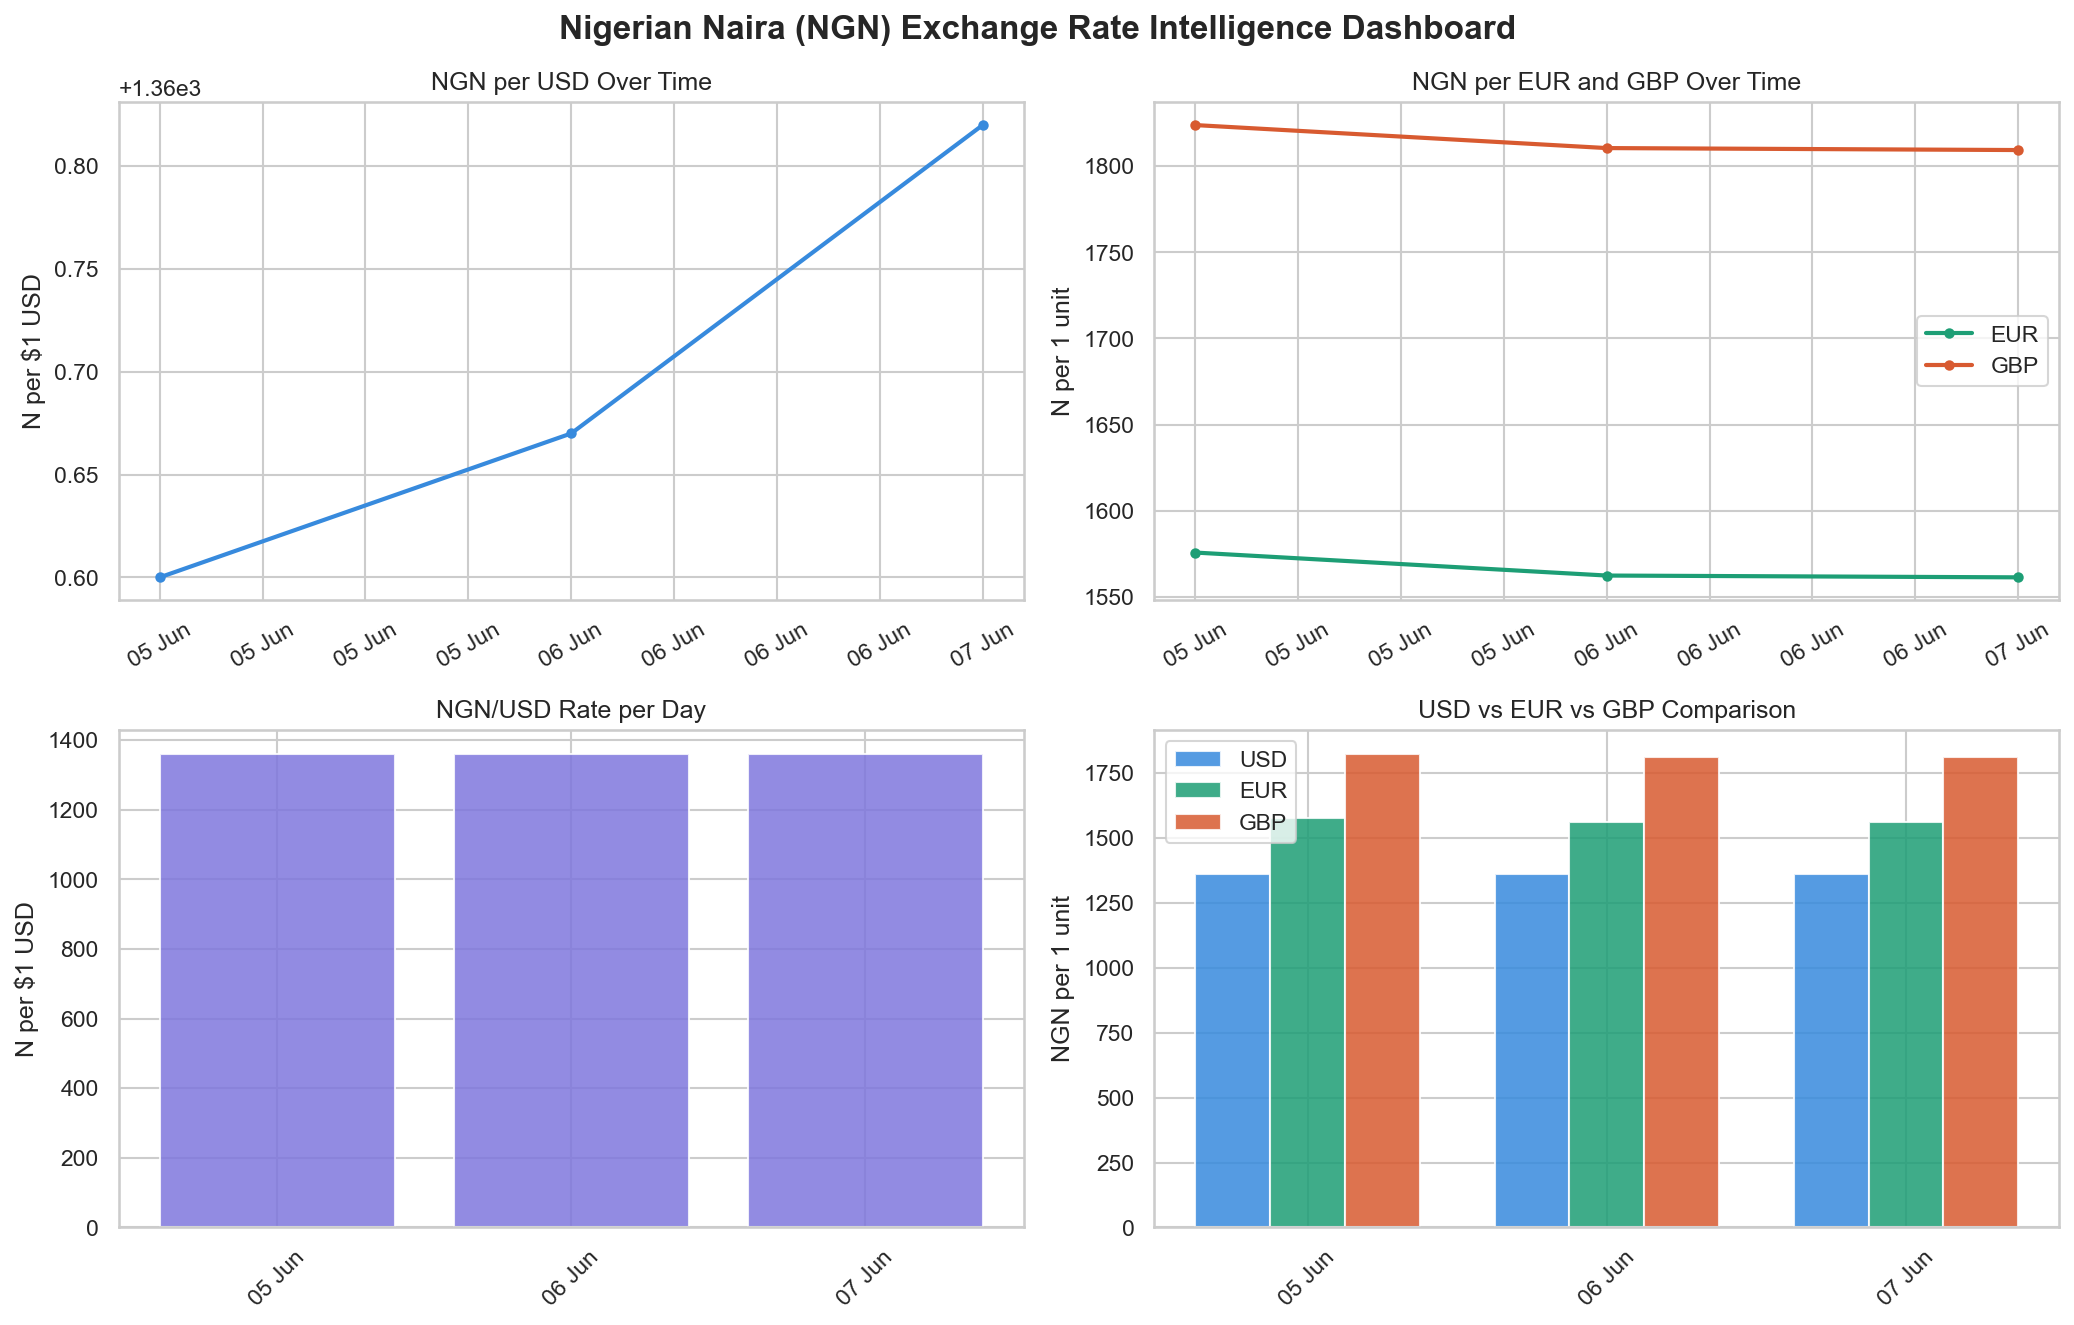
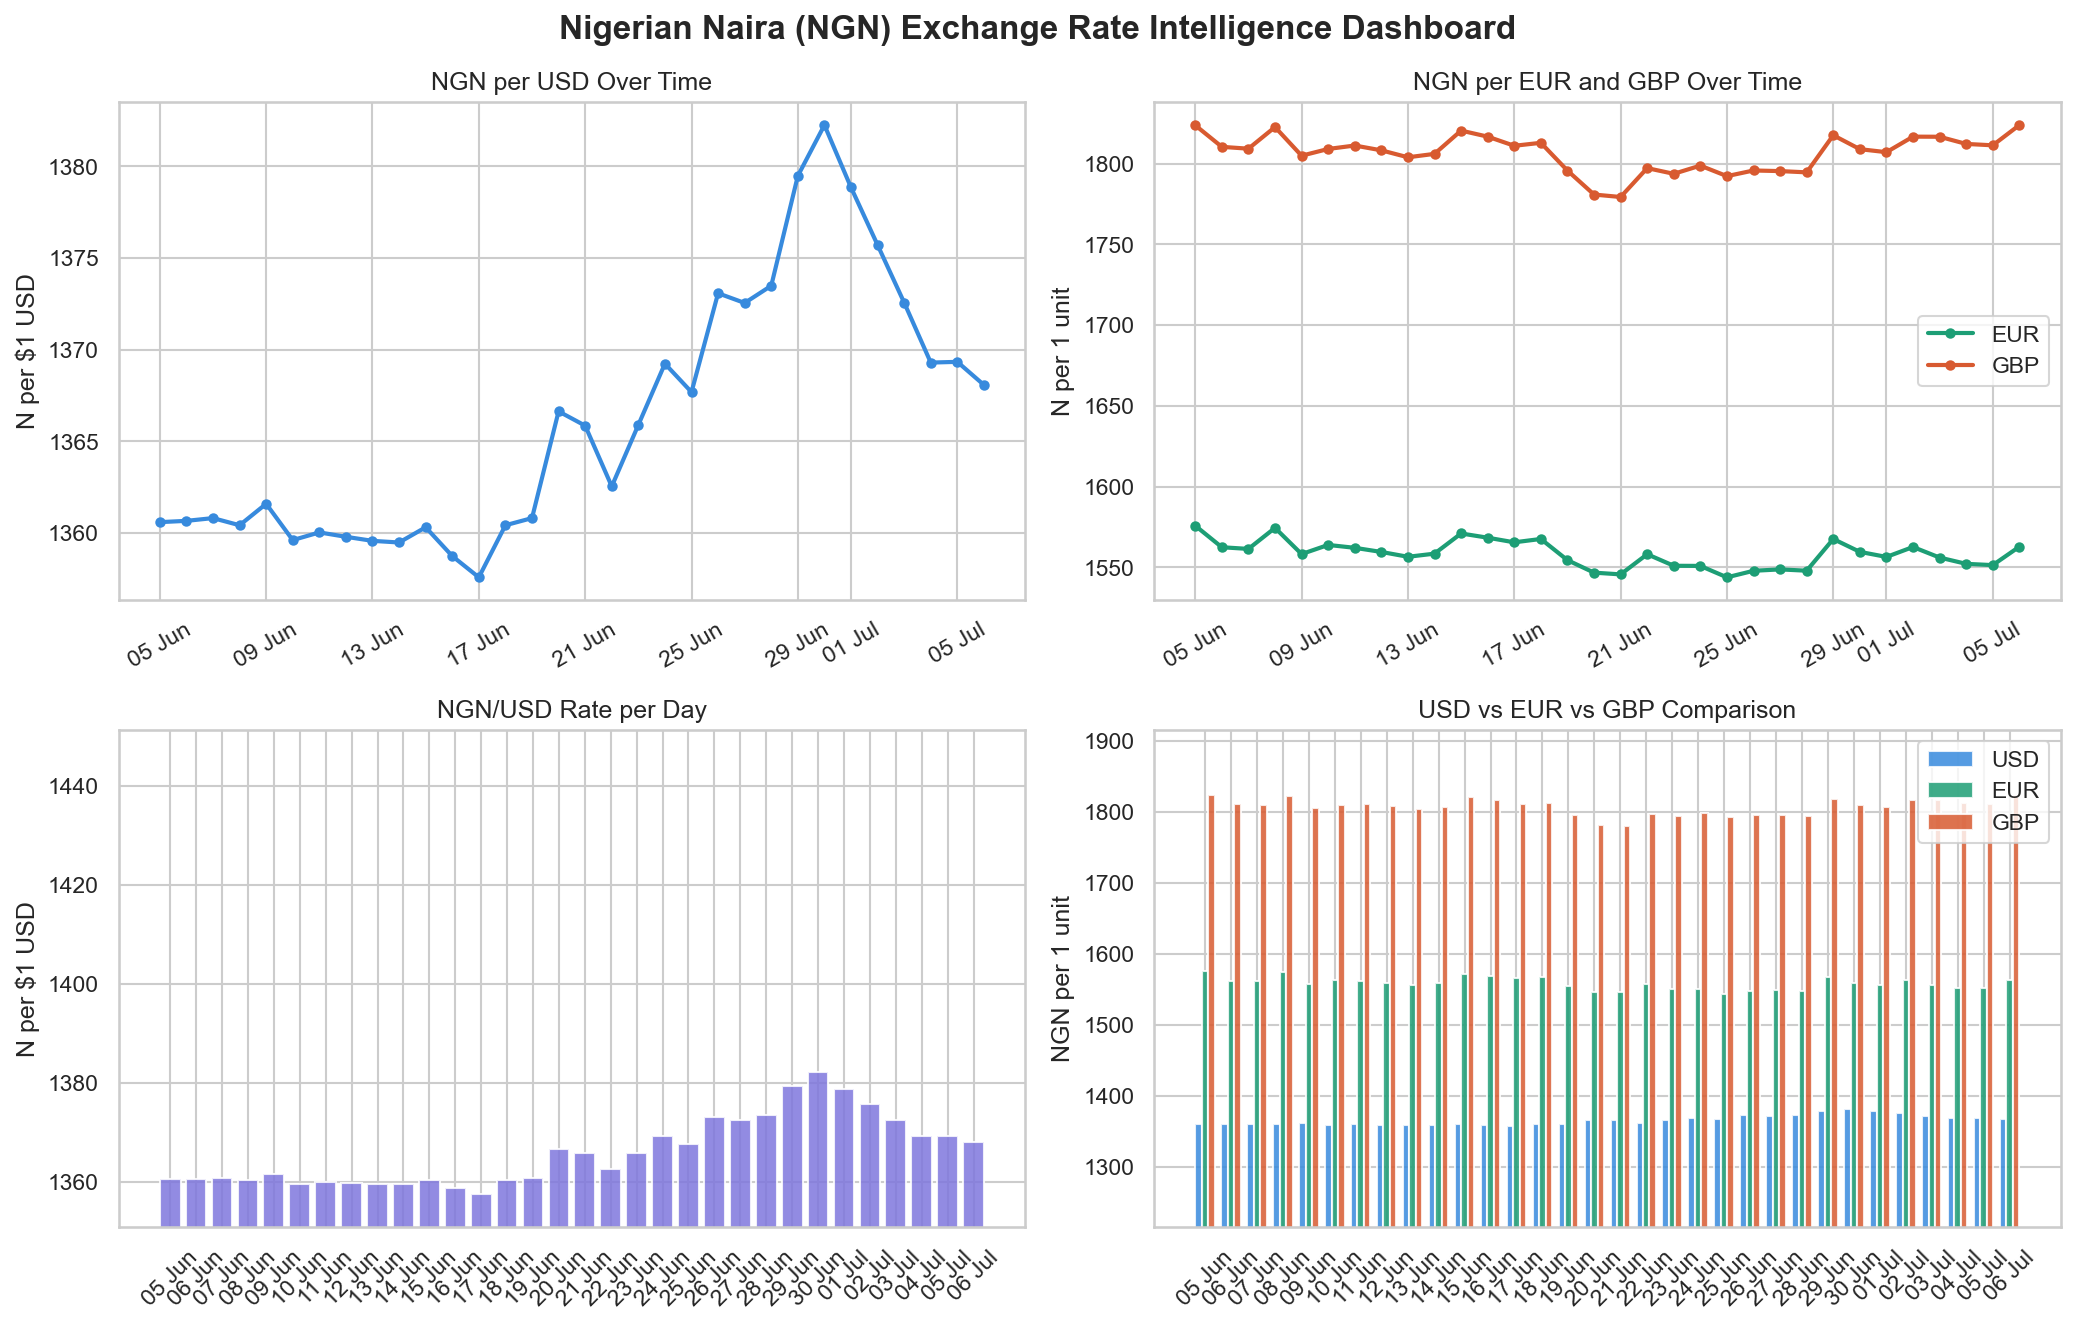
Add time range filter and period-based rate insight

diff --git a/app.py b/app.py
@@ -119,11 +119,23 @@ st.caption(f"📊 {confidence}: {confidence_reason}.")
 # ---- HISTORICAL CHART ----
 st.subheader("How the Naira Has Moved Against the Dollar")
 
+range_option = st.selectbox(
+    "Time range:",
+    ["7 Days", "30 Days", "90 Days", "1 Year"],
+    index=1
+)
+
+range_days = {"7 Days": 7, "30 Days": 30, "90 Days": 90, "1 Year": 365}[range_option]
+cutoff_date = df["date"].max() - pd.Timedelta(days=range_days)
+chart_df = df[df["date"] >= cutoff_date]
+
+chart_avg = chart_df["ngn_per_usd"].mean()
+
 fig, ax = plt.subplots(figsize=(10, 4))
-ax.plot(df["date"], df["ngn_per_usd"], 
+ax.plot(chart_df["date"], chart_df["ngn_per_usd"],
         color="#378ADD", linewidth=2, marker="o", markersize=4)
-ax.axhline(y=monthly_avg, color="#FF6B6B", 
-           linewidth=1.5, linestyle="--", label=f"30-day avg: ₦{monthly_avg:,.2f}")
+ax.axhline(y=chart_avg, color="#FF6B6B",
+           linewidth=1.5, linestyle="--", label=f"{range_option} avg: ₦{chart_avg:,.2f}")
 ax.set_ylabel("₦ per $1 USD")
 ax.xaxis.set_major_formatter(mdates.DateFormatter("%d %b"))
 ax.tick_params(axis="x", rotation=30)
@@ -133,8 +145,6 @@ plt.tight_layout()
 st.pyplot(fig)
 
 st.caption("💡 When the line is below the red dotted average — that's a cheaper day to buy dollars.")
-
-st.divider()
 
 # ---- IMPORT COST CALCULATOR ----
 st.subheader("Import Cost Calculator")
